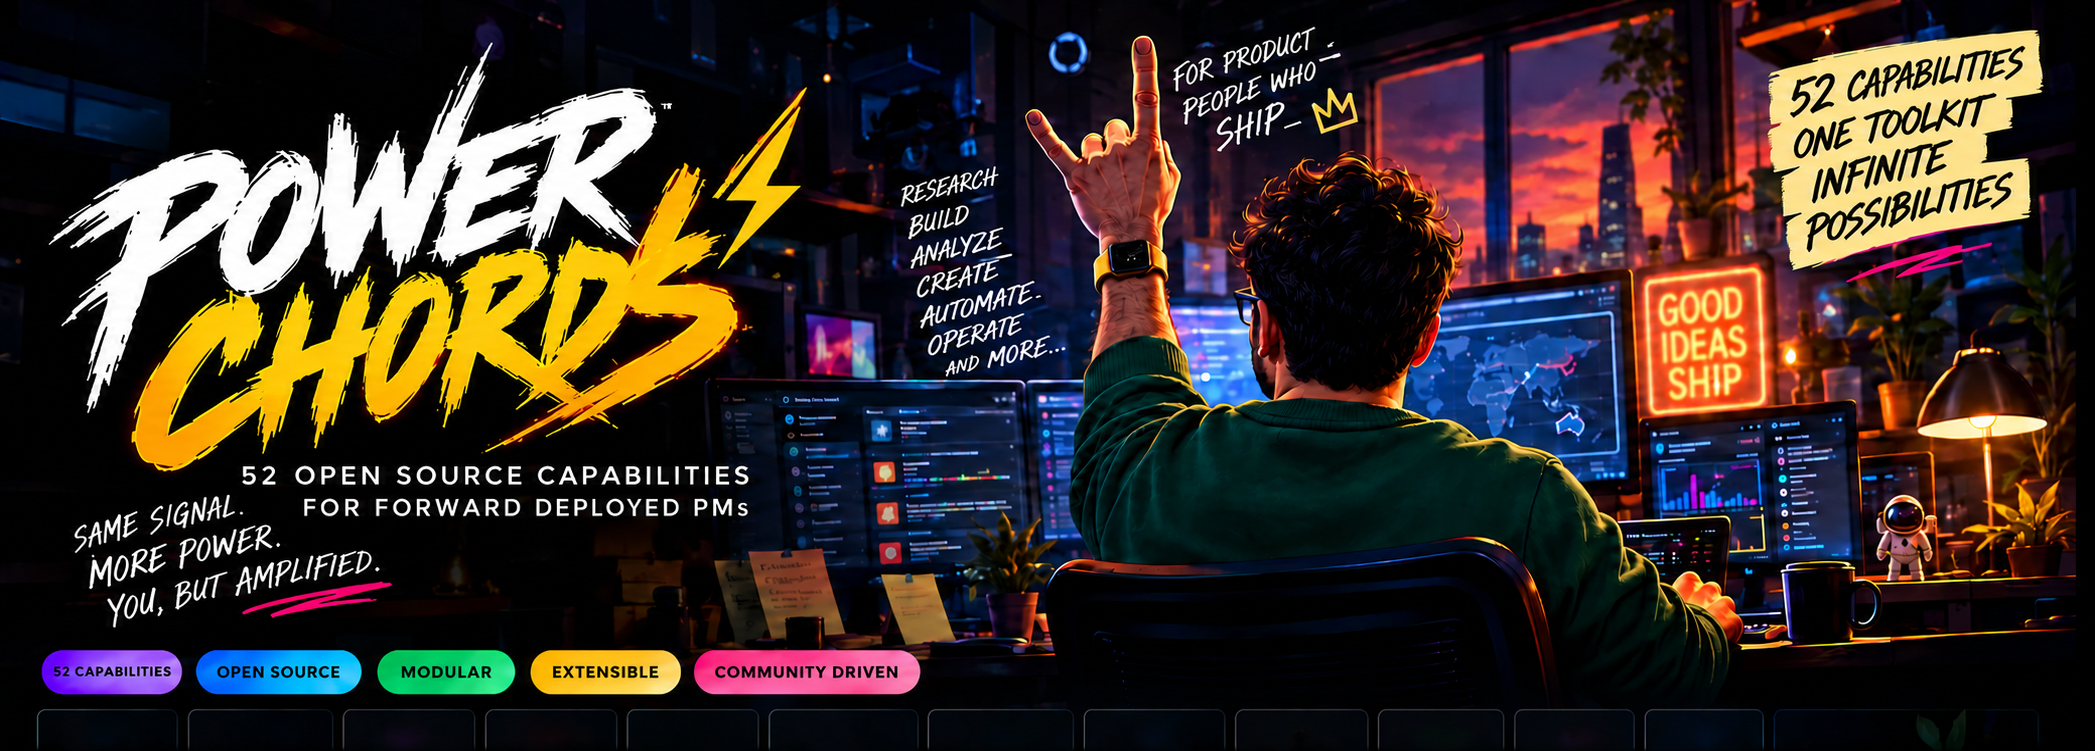
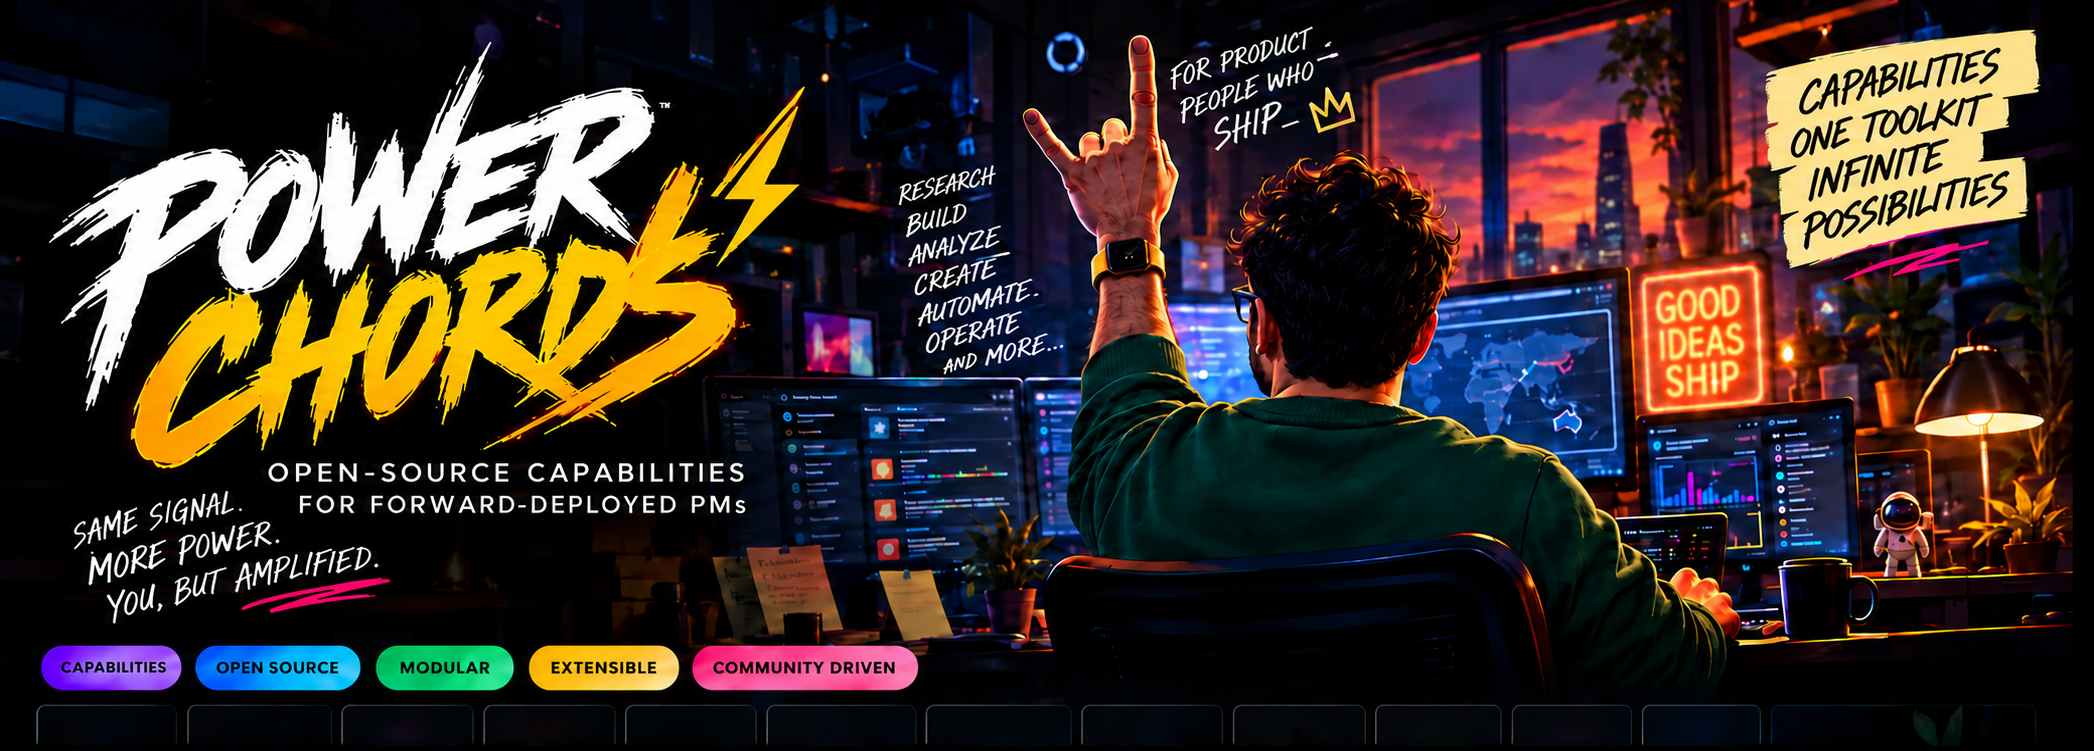
Use capabilities without counts and refine product messaging

diff --git a/README.md b/README.md
@@ -1,18 +1,18 @@
 <div align="center">
 
-<img src="assets/power-chords-rockstar-hero-green.png" alt="Power Chords — 52 capabilities, with a product builder in a green sweater raising the rock-horns hand sign at his workspace" width="100%" />
+<img src="assets/power-chords-rockstar-hero-green.png" alt="Power Chords — open-source capabilities for product builders, featuring a builder in a green sweater at his workspace" width="100%" />
 
 # 🤘 POWER CHORDS
 
-### One workspace. Connected powers. A seriously capable product builder.
+### Connected capabilities. One workspace. From customer evidence to product decisions.
 
-**Go from an ambiguous customer problem to an actionable, reviewable work product.**
+**Turn customer context into clear plans, specifications, and documents ready for review.**
 
 **Built by [Saurabh Misal](https://github.com/saurabhmisal)** · Original Power Chords Workroom & orchestration architecture
 
 [![Version](https://img.shields.io/badge/WORKROOM-0.2-f59e0b?style=for-the-badge)](#get-started)
 [![Automated tests](https://img.shields.io/badge/TESTED-NODE_22-22c55e?style=for-the-badge)](#test-it)
-[![Capability map](https://img.shields.io/badge/CAPABILITY_MAP-52-9c5cf0?style=for-the-badge)](docs/CAPABILITIES.md)
+[![Capabilities](https://img.shields.io/badge/EXPLORE-CAPABILITIES-9c5cf0?style=for-the-badge)](docs/CAPABILITIES.md)
 [![Privacy](https://img.shields.io/badge/LOCAL-FIRST-00b5ce?style=for-the-badge)](#security--control)
 
 [⚡ **Get started**](#get-started) · [🧠 **The Workroom**](#workroom) · [🎯 **Real examples**](#four-working-workflows) · [🏗 **Architecture**](docs/ARCHITECTURE.md) · [🧩 **Extend it**](docs/ADAPTER_SDK.md)
@@ -31,7 +31,7 @@ Power Chords is an original **local-first product Workroom** with a shared execu
 
 It's designed to turn messy, incomplete inputs into something useful **today**, while providing a consistent architecture for richer AI and application integrations **tomorrow**.
 
-**This is not a page of links.** You can run native workflows, generate deliverables, inspect an audit trail and retrieve previous work. The 52-capability map is the broader technical roadmap—not a claim that 52 external systems already run inside this release.
+Run native workflows, generate deliverables, inspect an audit trail, and retrieve previous work. The capability map distinguishes working drafting tools from capabilities that need additional integrations.
 
 ### From the field to the product
 
@@ -46,14 +46,14 @@ flowchart LR
   D -. optional reviewed adapters .-> H[Additional runtimes]
 ```
 
-## ⚡ 52 portable skills. Your agent, your workflow.
+## Portable capabilities for your agent and workflow
 
-**Power Chords V0.3 ships an independent README, Agent Skill instruction file, capability manifest, and working example request for every one of its 52 function-named powers.** Nothing requires a specific model provider. Each package can be used on its own or alongside the local Workroom.
+**Each capability includes a usage guide, an Agent Skill instruction file, a manifest, and an example request.** The packages are independent of any model provider and can be used individually or alongside the local Workroom.
 
 **[Browse every capability and its usage guide →](docs/CAPABILITY_GUIDES.md)**
 
 ```bash
-# Discover all 52 functional capabilities
+# Browse available capabilities
 npm run capabilities:list
 
 # Install capability #10 as a local Codex Agent Skill in your project
@@ -70,7 +70,7 @@ node scripts/capabilities-cli.mjs install 10 --dest ./my-agent/skills
 
 After installation, open your agent and ask: **“Use the Power Chords PRD and specification writing skill to turn these notes into a reviewable PRD with acceptance criteria.”** If your agent doesn't discover project-local skills automatically, reference the generated `SKILL.md` directly.
 
-The installer copies first-party instructions and metadata only; it does not run foreign code, install models, silently grant permissions, or enable unsupported tools. The capability guides openly distinguish skills that contribute to four existing native Workroom drafting flows from others that need real execution adapters. **52 documented skills ≠ 52 independently runnable integrations.**
+The installer copies first-party instructions and metadata only; it does not run third-party code, install models, grant permissions, or enable unsupported tools. The guides explain which capabilities support native Workroom drafting workflows and which require additional runtime adapters. A documented capability does not imply an operational integration.
 
 For individual instructions, schemas, examples, and acceptance criteria, open any `capabilities/<functional-name>/README.md`. See [Agent compatibility and boundaries](docs/AGENT_COMPATIBILITY.md).
 
@@ -149,7 +149,7 @@ INTEGRATION READINESS PACK
 DOWNLOAD .MD  +  LOCAL AUDIT  +  REVIEW REQUIRED
 ```
 
-## One architecture, not 52 disconnected apps
+## A shared architecture for connected capabilities
 
 Power Chords has a single local runtime and contracts for the distinct kinds of capabilities it can host.
 
@@ -187,11 +187,11 @@ Power Chords has a single local runtime and contracts for the distinct kinds of 
 
 See [architecture](docs/ARCHITECTURE.md), [adapter design](docs/ADAPTER_SDK.md) and [status matrix](docs/CAPABILITIES.md).
 
-## 52 capabilities. Twelve connected disciplines.
+## Capabilities across product disciplines
 
 Power Chords organizes a forward-deployed builder's operating system around **twelve power families**: discovery, document intelligence, product strategy, engineering, design, agents, analytics, operations, voice/media, growth, professional enablement and spatial intelligence.
 
-The [52-capability matrix](docs/CAPABILITIES.md) distinguishes capabilities supported by native assistive workflows from those requiring reviewed adapters. This avoids confusing aspirational coverage with operational readiness.
+The [capability matrix](docs/CAPABILITIES.md) identifies capabilities supported by native drafting workflows and those requiring reviewed adapters, making their current execution scope clear.
 
 ### Architecture decisions that make the difference
 
@@ -217,7 +217,7 @@ The local HTTP service binds to `127.0.0.1`, uses a session cookie, validates re
 |---|---|---|
 | I | Cohesive Workroom with real artifact generation | ✅ Implemented |
 | II | Native power registry, per-user revocation and audit | ✅ Implemented |
-| III | 52 function-named capability packs, usage guides and manifests | ✅ Documented and packaged; runtime scope varies |
+| III | Capability packages with usage guides, manifests, and examples | ✅ Documented and packaged; runtime scope varies |
 | IV | Source package inspection and pinned instruction imports | ✅ Prototype; no arbitrary code execution |
 | V | More native operators and evidence-aware data connectors | ⏳ Planned |
 | VI | Production-reviewed adapters for external applications/services | ⏳ Planned |
